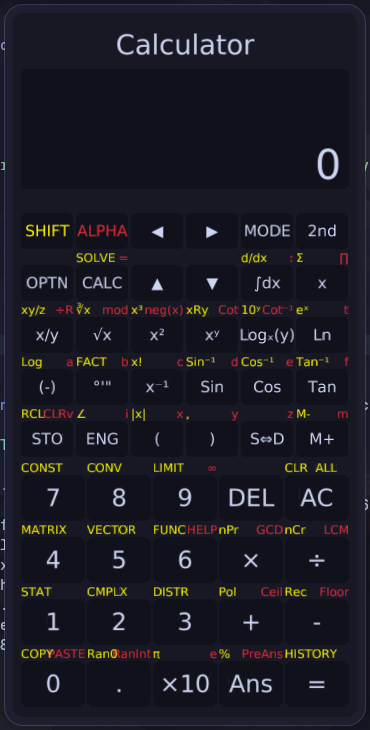
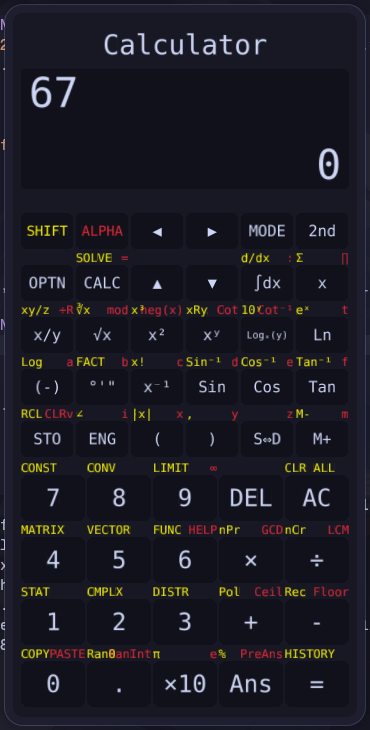
chore: a little tweak on font size

diff --git a/src/cal.c b/src/cal.c
@@ -7,13 +7,13 @@
 #define WINH 720
 #define APP_NAME "Calc"
 #define APP_NAME_FULL "Calculator"
-#define FONT_LOC "DejaVu/DejaVuSans.ttf"
+#define FONT_LOC "DejaVu/DejaVuSansMono.ttf"
 #define WIN_PADDING 8.0f
 #define PADDING (WIN_PADDING * 2.0f)
 #define CALC_HEADER 48.0f
 #define CALC_DISPLAY_H 120.0f
 #define CALC_DISPLAY_FONT_SIZE 48.0f
-#define CALC_DISPLAY_FONT_SIZE_MIN 24.0f
+#define CALC_DISPLAY_FONT_SIZE_MIN 32.0f
 #define CALC_BUTTON_PADDING_W .5f
 #define CALC_BUTTON_PADDING_H 8.0f
 #define CALC_NUMBER_ROWS 4
@@ -36,8 +36,11 @@ typedef struct Button {
     const char *alpha_text;
     Rectangle rect;
     Vector2 text_pos;
+    float text_size;
     Vector2 shift_text_pos;
+    float shift_text_size;
     Vector2 alpha_text_pos;
+    float alpha_text_size;
 } Button;
 
 static Button func_btns[CALC_FUNCTION_ROWS][CALC_FUNCTION_COLS] = {
@@ -55,14 +58,14 @@ static Button func_btns[CALC_FUNCTION_ROWS][CALC_FUNCTION_COLS] = {
         (Button){ "▲",    },
         (Button){ "▼",  },
         (Button){ "∫dx",     "d/dx",    ":"       },
-        (Button){ "x",       "Σ", "∏"   },
+        (Button){ "x",       "Σ",       "∏"       },
     },
     {
         (Button){ "x/y",     "xy/z",    "÷R",     },
         (Button){ "√x",      "∛x",      "mod",    },
         (Button){ "x²",      "x³",      "neg(x)", },
         (Button){ "xʸ",      "xRy",     "Cot",    },
-        (Button){ "Logₓ(y)", "10ʸ",     "Cot⁻¹", },
+        (Button){ "Logₓ(y)", "10ʸ",     "Cot⁻¹",  },
         (Button){ "Ln",      "eˣ",      "t",      },
     },
     {
@@ -95,15 +98,15 @@ static Button num_btns[CALC_NUMBER_ROWS][CALC_NUMBER_COLS] = {
         (Button){ "1",       "STAT",    },
         (Button){ "2",       "CMPLX",   },
         (Button){ "3",       "DISTR",   },
-        (Button){ "+",       "Pol",     "Ceil",    },
-        (Button){ "-",       "Rec",     "Floor",   },
+        (Button){ "+",       "Pol",     "Ceil",   },
+        (Button){ "-",       "Rec",     "Floor",  },
     },
     {
         (Button){ "4",       "MATRIX",  },
         (Button){ "5",       "VECTOR",  },
-        (Button){ "6",       "FUNC",    "HELP",    },
-        (Button){ "×",       "nPr",     "GCD",     },
-        (Button){ "÷",       "nCr",     "LCM",     },
+        (Button){ "6",       "FUNC",    "HELP",   },
+        (Button){ "×",       "nPr",     "GCD",    },
+        (Button){ "÷",       "nCr",     "LCM",    },
     },
     {
         (Button){ "7",       "CONST",   },
@@ -118,7 +121,7 @@ static Font font;
 
 typedef struct {
     char input[CALC_MAX_INPUT_LEN];
-    char *output;
+    char output[CALC_MAX_OUTPUT_LEN];
 } Calc;
 
 static Calc calc;
@@ -144,6 +147,7 @@ static inline void load_font();
 static inline void init_number_buttons();
 static inline void init_function_buttons();
 static inline void calc_text_size(Rectangle *r, Button *b, float size);
+static inline float fix_text_size(const char* text, float max_width, float current);
 static inline void draw_background();
 static inline void draw_header();
 static inline void draw_display();
@@ -210,16 +214,23 @@ static inline void draw_display() {
 
 static inline void draw_display_text_input() {
     if (TextLength(calc.input) == 0) return;
-    Vector2 text_size = MeasureTextEx(font, calc.input, CALC_DISPLAY_FONT_SIZE, .0f);
+    float size = CALC_DISPLAY_FONT_SIZE;
+    while (
+            MeasureTextEx(font, calc.input, size, .0f).x > CALC_DISPLAY_RECT.width - WIN_PADDING * 2.0f
+            && size >= CALC_DISPLAY_FONT_SIZE_MIN
+    ) {
+        size -= 0.5f;
+    }
+    Vector2 text_size = MeasureTextEx(font, calc.input, size, .0f);
     Vector2 draw_pos = {
         .x = CALC_DISPLAY_RECT.x + WIN_PADDING,
         .y = CALC_DISPLAY_RECT.y,
     };
-    DrawTextEx(font, calc.input, draw_pos, CALC_DISPLAY_FONT_SIZE, .0f, CALC_THEME_TEXT);
+    DrawTextEx(font, calc.input, draw_pos, size, .0f, CALC_THEME_TEXT);
 }
 
 static inline void draw_display_text_result() {
-    if (TextLength(calc.output) == 0) calc.output = "0";
+    if (TextLength(calc.output) == 0) calc.output[0] = '0';
     Vector2 text_size = MeasureTextEx(font, calc.output, CALC_DISPLAY_FONT_SIZE, .0f);
     Vector2 draw_pos = {
         .x = CALC_DISPLAY_RECT.x + CALC_DISPLAY_RECT.width  - text_size.x - WIN_PADDING,
@@ -261,7 +272,8 @@ static inline void init_number_buttons() {
 }
 
 static inline void calc_text_size(Rectangle *r, Button *b, float size) {
-    Vector2 text_size = MeasureTextEx(font, b->text, size, .0f);
+    b->text_size = fix_text_size(b->text, r->width * 0.8f, size);
+    Vector2 text_size = MeasureTextEx(font, b->text, b->text_size, .0f);
     b->text_pos = (Vector2){
         .x = r->x + (r->width  - text_size.x) / 2.0f,
         .y = r->y + (r->height - text_size.y) / 2.0f
@@ -279,6 +291,12 @@ static inline void calc_text_size(Rectangle *r, Button *b, float size) {
     };
 }
 
+static inline float fix_text_size(const char* text, float max_width, float current) {
+    while (MeasureTextEx(font, text, current, .0f).x > max_width)
+        current -= 0.5f;
+    return current;
+}
+
 static inline void draw_function_buttons() {
     for (size_t row = 0; row < CALC_FUNCTION_ROWS; ++row) {
         for (size_t col = 0; col < CALC_FUNCTION_COLS; ++col) {
@@ -290,7 +308,7 @@ static inline void draw_function_buttons() {
             Color text_c = TextIsEqual(b->text, "SHIFT") ? YELLOW
                 : TextIsEqual(b->text, "ALPHA")          ? RED
                 : CALC_THEME_TEXT;
-            DrawTextEx(font, b->text, b->text_pos, CALC_FUNCTION_BUTTON_FONT_SIZE, .0f, text_c);
+            DrawTextEx(font, b->text, b->text_pos, b->text_size, .0f, text_c);
             if (b->alpha_text) DrawTextEx(font, b->alpha_text, b->alpha_text_pos, CALC_BUTTON_SHIFT_ALPHA_FONT_SIZE, .0f, RED);
             if (b->shift_text) DrawTextEx(font, b->shift_text, b->shift_text_pos, CALC_BUTTON_SHIFT_ALPHA_FONT_SIZE, .0f, YELLOW);
         }
